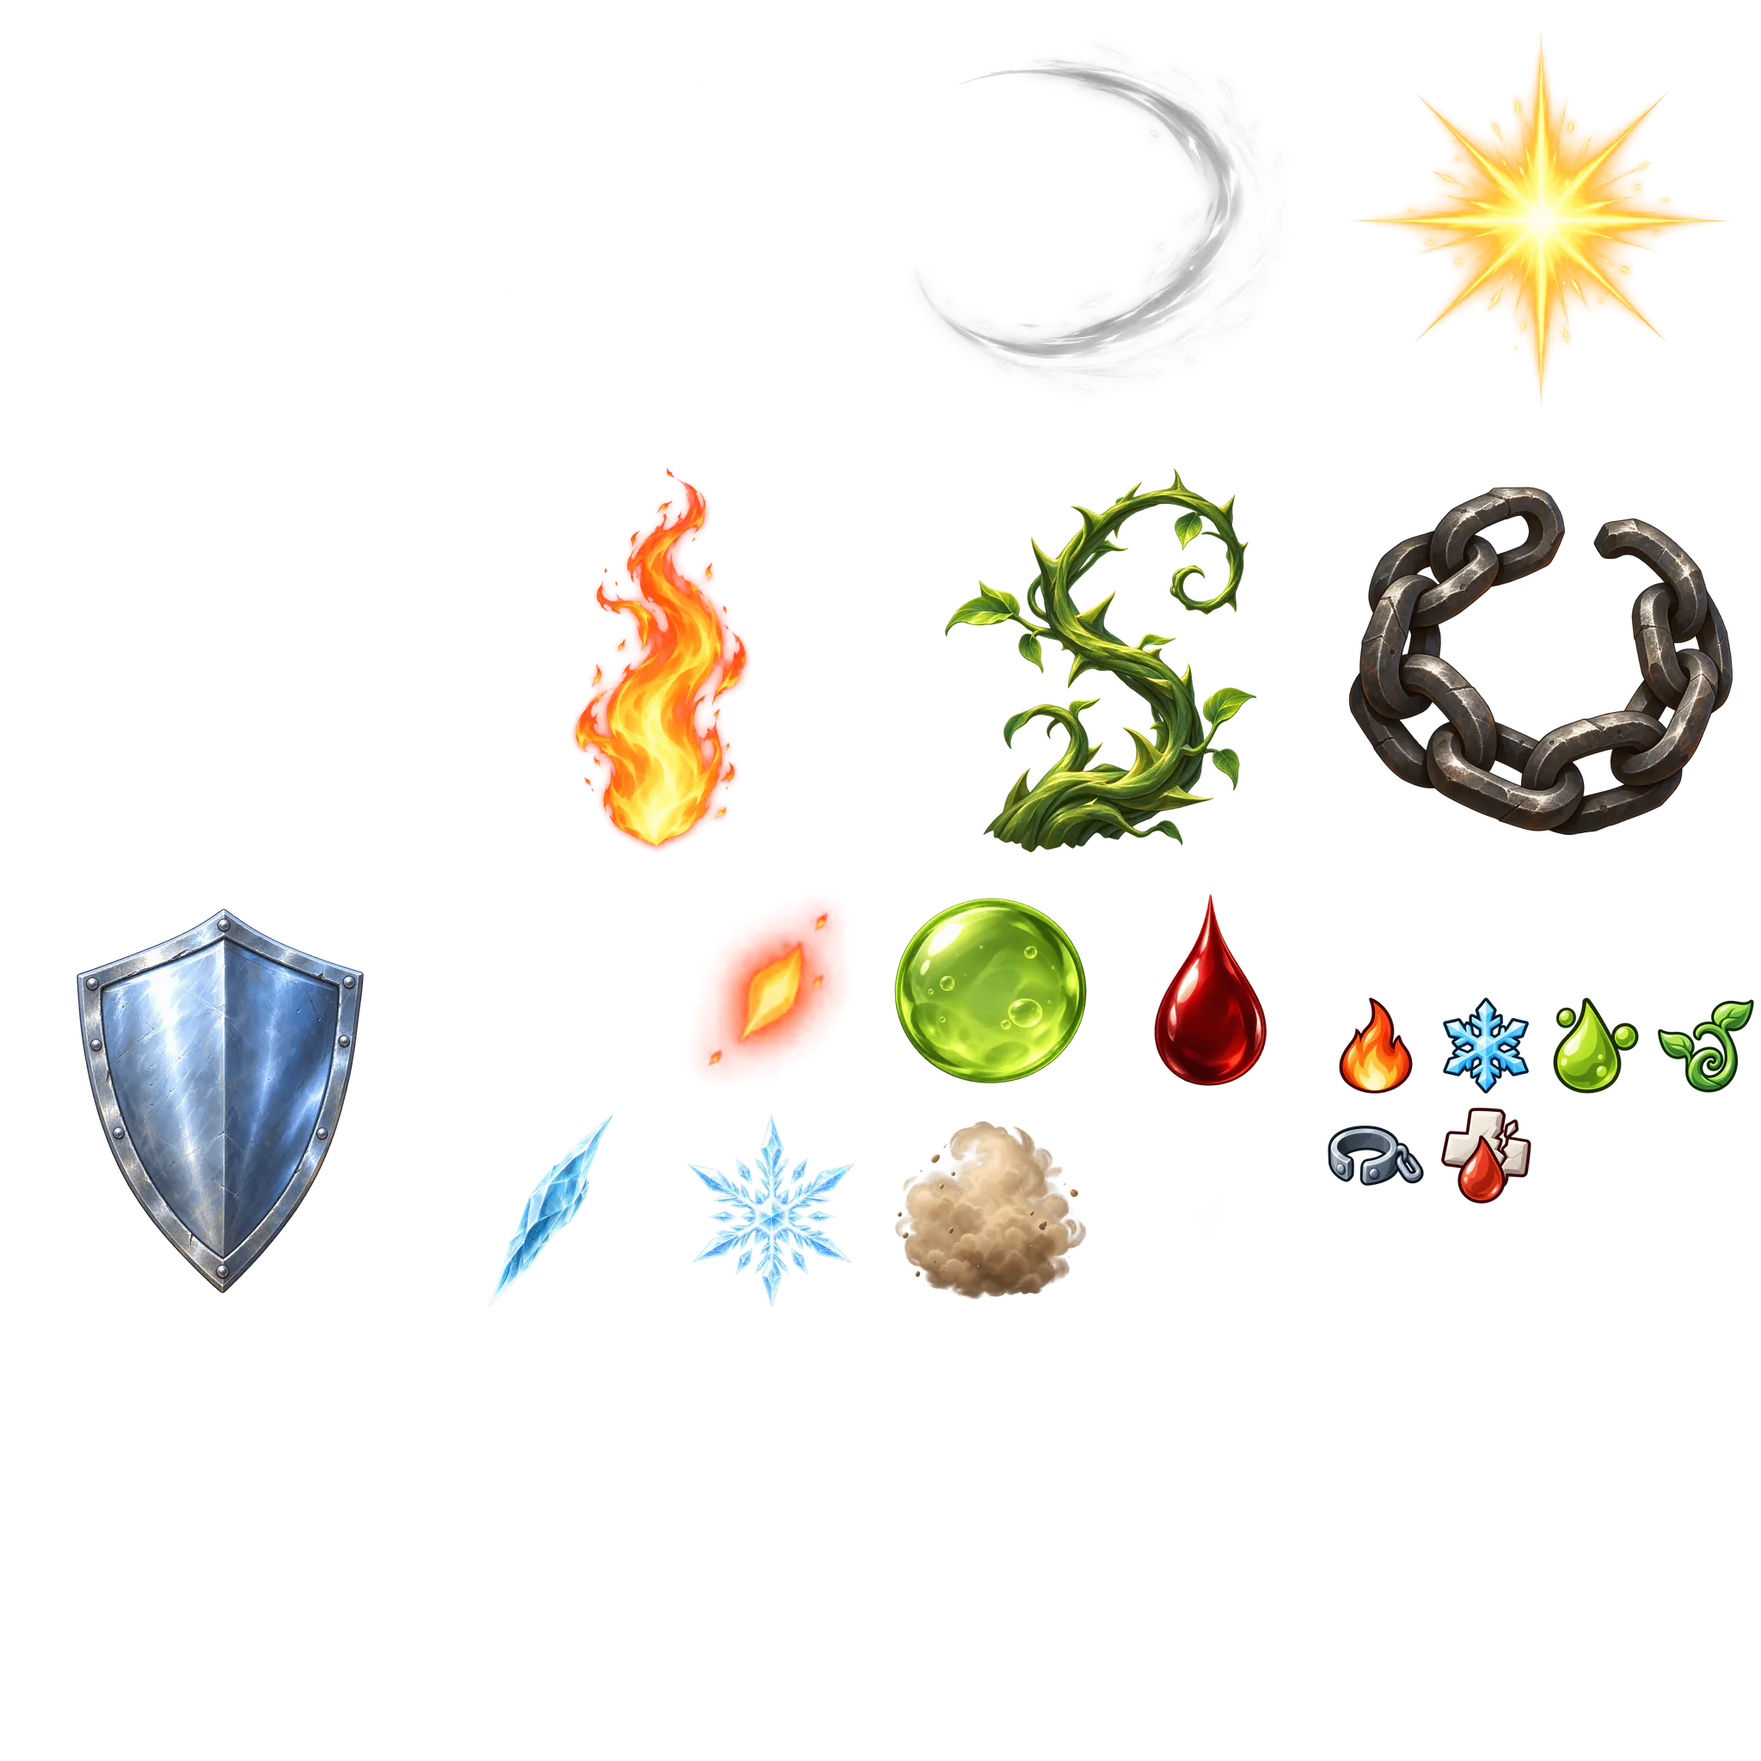
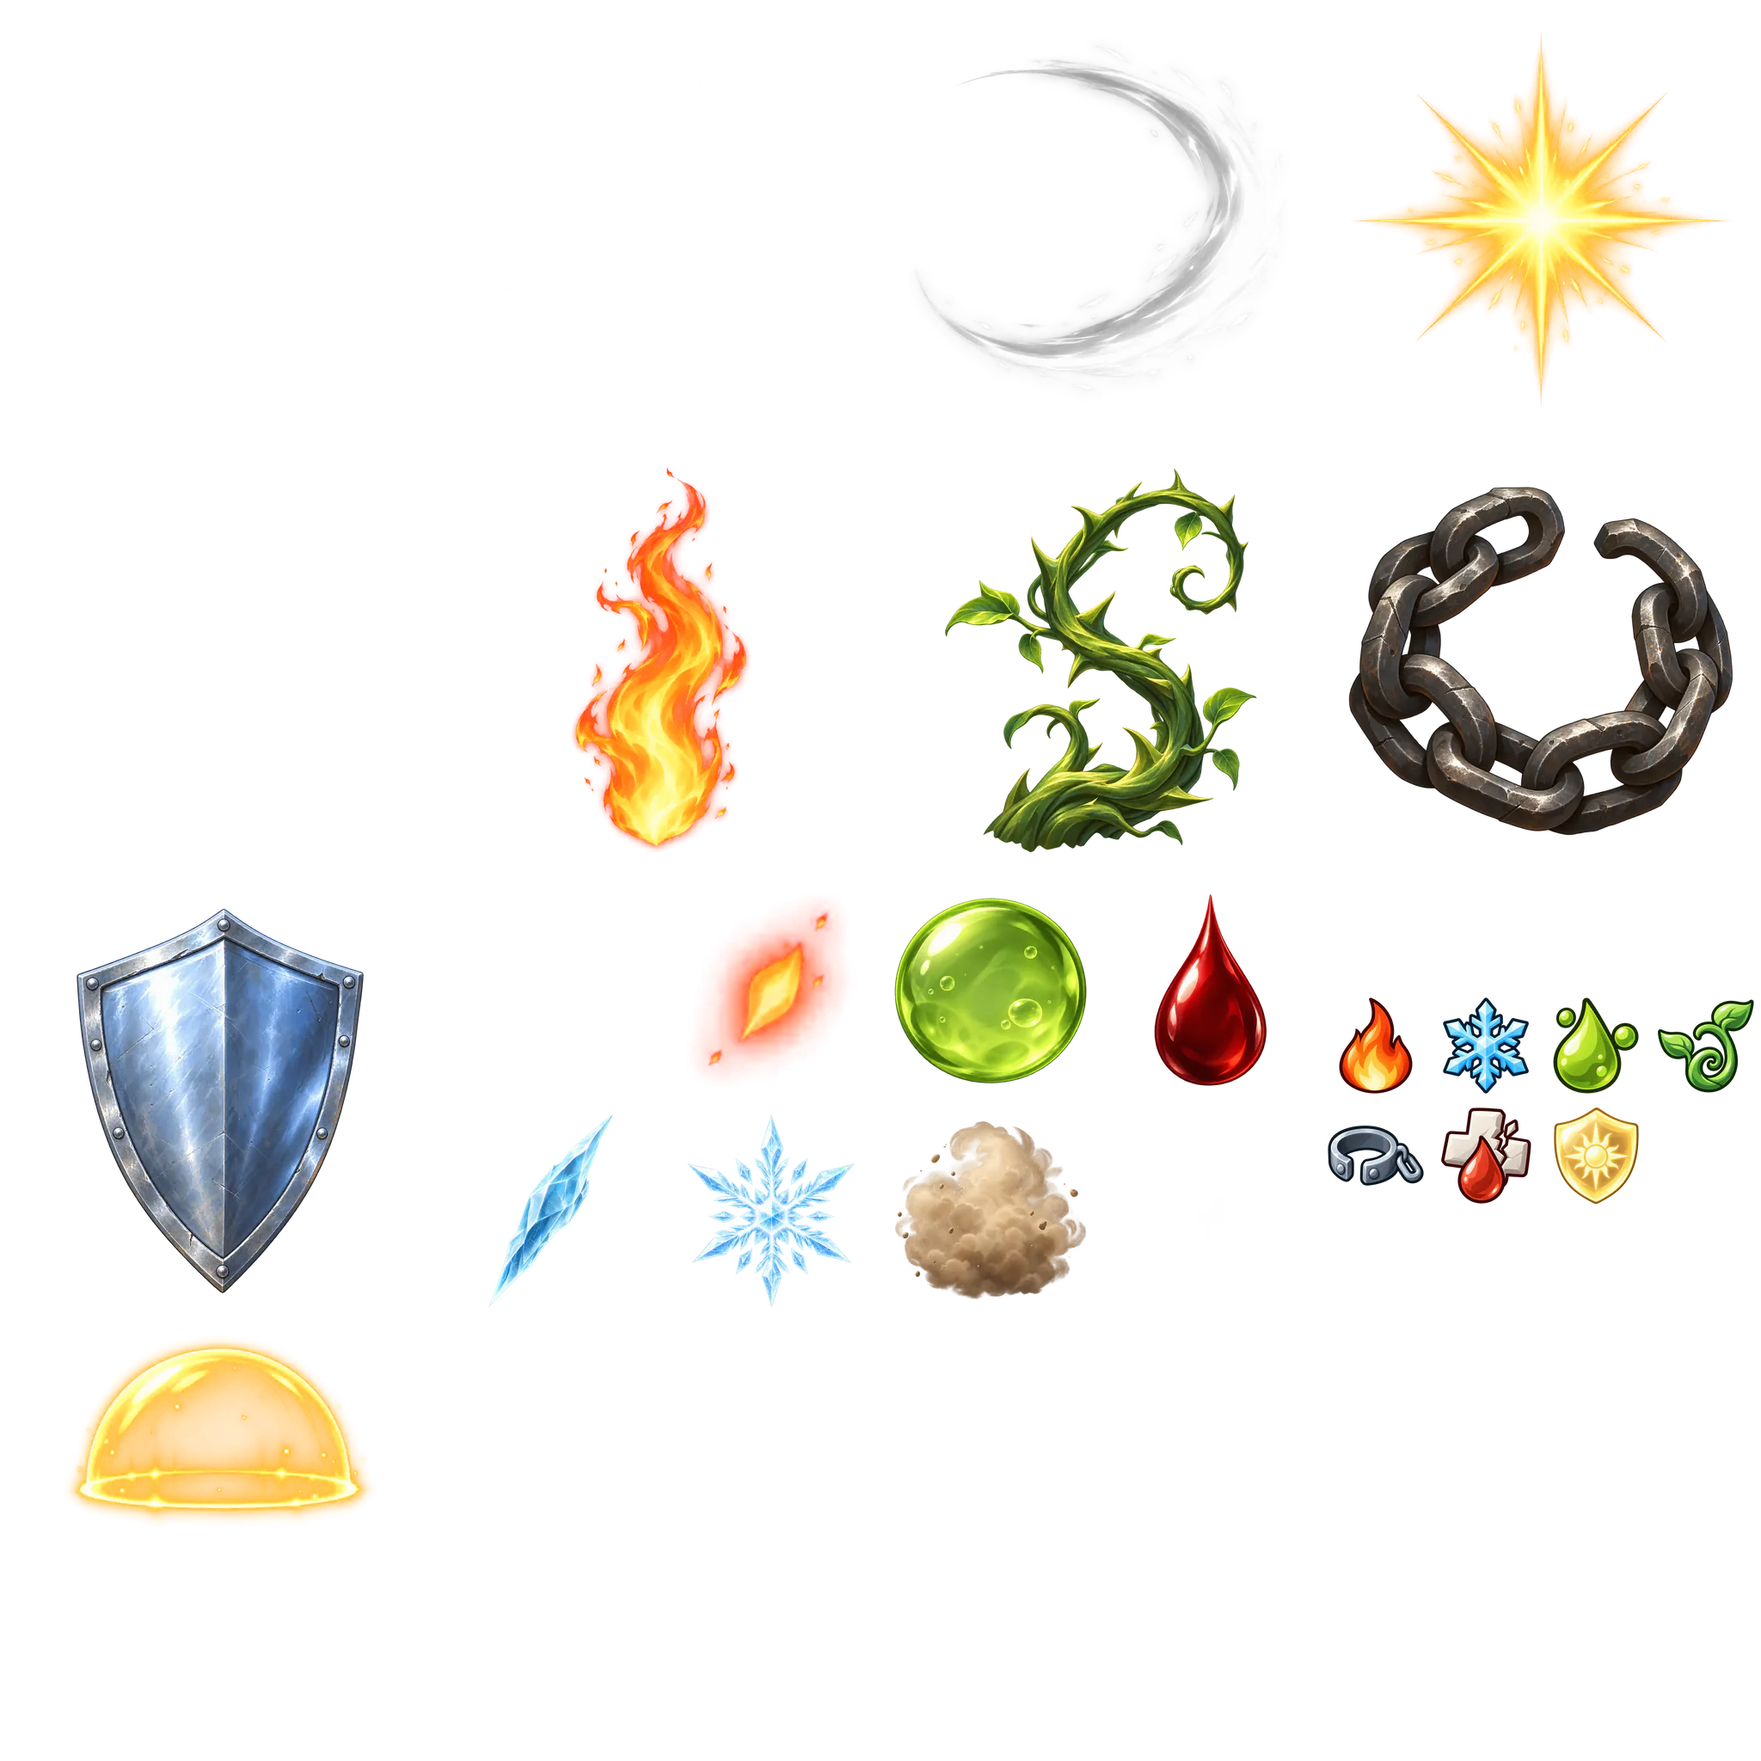
feat(web): introduce new Priest skills and update battle mechanics
- Added new Priest skills: Mend, Smite, and Sanctuary, each with unique healing and damage effects.
- Updated README to include new card concepts and status effects, enhancing gameplay dynamics.
- Introduced new visual assets for Priest skills and effects, including icons and animations.
- Enhanced the FX atlas to accommodate new effects related to the Ward and Sanctuary skills.
- Updated unit tests to ensure functionality of new skills and their interactions in battle.

Changed region(s): [[0.0312, 0.75, 0.2188, 0.875], [0.875, 0.625, 0.9375, 0.6875]]

diff --git a/apps/web/src/features/battle/scene/fx-slots.ts b/apps/web/src/features/battle/scene/fx-slots.ts
@@ -58,7 +58,8 @@ const fixed = (at: FxCell, blend: FxSlot["blend"], anchor: string): FxSlot => ({
  * The slot table of the effects atlas: the source of truth for the code, the
  * placeholders and the pack script of the painted atlas (#12). The code uses
  * only the slot names, so the art can change with no code change. The row at
- * y = 1536 and the rest of the cell at (1536, 1024) are free for new slots.
+ * y = 1536 after x = 512 and the rest of the cell at (1536, 1024) are free
+ * for new slots.
  */
 export const FX_SLOTS = {
   glow: code(cell(0, 0, 512), "additive"),
@@ -90,18 +91,16 @@ export const FX_SLOTS = {
   "icon-hobble": fixed(cell(1536, 1280, 128), "alpha", FX_ANCHORS.iconHobble),
   "icon-bleed": fixed(cell(1664, 1280, 128), "alpha", FX_ANCHORS.iconBleed),
   "icon-ward": fixed(cell(1792, 1280, 128), "alpha", FX_ANCHORS.iconWard),
+  ward: fixed(cell(0, 1536, 512, 256), "additive", FX_ANCHORS.holy),
 } as const satisfies Readonly<Record<string, FxSlot>>;
 
 export type FxSlotName = keyof typeof FX_SLOTS;
 
 /**
- * The slots that the painted atlas does not have yet (#45 paints the Ward
- * icon). They keep their canvas placeholder over the painted atlas, and the
- * DOM shows a glyph for them.
+ * The slots that the painted atlas does not have yet. They keep their canvas
+ * placeholder over the painted atlas, and the DOM shows a glyph for them.
  */
-export const UNPAINTED_SLOTS: ReadonlySet<FxSlotName> = new Set<FxSlotName>([
-  "icon-ward",
-]);
+export const UNPAINTED_SLOTS: ReadonlySet<FxSlotName> = new Set<FxSlotName>();
 
 /** All slot names, in the order of the table. */
 export const fxSlotNames = (): FxSlotName[] =>

diff --git a/apps/web/src/features/battle/scene/textures.ts b/apps/web/src/features/battle/scene/textures.ts
@@ -722,6 +722,35 @@ const drawHeal: FxDraw = (context, width) => {
   context.fillRect(width * 0.2, width / 2 - arm, width * 0.6, arm * 2);
 };
 
+/** The Ward dome: a half-sphere of gold light on a thin ring of light. */
+const drawDome: FxDraw = (context, width) => {
+  const base = width * 0.72;
+  const radius = width * 0.38;
+  context.shadowColor = FX_ANCHORS.holy;
+  context.shadowBlur = width / 16;
+  const fill = context.createRadialGradient(
+    width / 2,
+    base,
+    radius * 0.4,
+    width / 2,
+    base,
+    radius
+  );
+  fill.addColorStop(0, "rgba(255, 215, 90, 0.08)");
+  fill.addColorStop(1, "rgba(255, 215, 90, 0.45)");
+  context.fillStyle = fill;
+  context.beginPath();
+  context.arc(width / 2, base, radius, Math.PI, 0);
+  context.closePath();
+  context.fill();
+  context.strokeStyle = FX_ANCHORS.holy;
+  context.lineWidth = width / 40;
+  context.stroke();
+  context.beginPath();
+  context.ellipse(width / 2, base, radius, radius * 0.18, 0, 0, Math.PI * 2);
+  context.stroke();
+};
+
 const drawTrail: FxDraw = (context, width, height) => {
   const along = context.createLinearGradient(
     width / 16,
@@ -794,6 +823,7 @@ const FX_PLACEHOLDERS: Readonly<Record<FxSlotName, FxDraw>> = {
   "icon-hobble": glyphIcon("speed", FX_ANCHORS.iconHobble),
   "icon-bleed": drawBleedIcon,
   "icon-ward": glyphIcon("shield", FX_ANCHORS.iconWard),
+  ward: drawDome,
 };
 
 /** The placeholder atlas is half size: the UV rectangles do not change. */

diff --git a/apps/web/src/features/battle/scene/particles.ts b/apps/web/src/features/battle/scene/particles.ts
@@ -452,9 +452,10 @@ const BURSTS: Readonly<Record<BurstName, readonly Emission[]>> = {
       }),
     },
   ],
-  // Sanctuary: a shield forms on the Unit, and gold motes go up around it.
+  // Sanctuary: a dome of gold light forms on the Unit, and gold motes go up
+  // around it.
   ward: [
-    { slot: "shield", count: 1, place: pulse(0.25, 0.8) },
+    { slot: "ward", count: 1, place: pulse(0.25, 0.8) },
     {
       slot: "spark",
       count: 10,
@@ -491,9 +492,9 @@ const BURSTS: Readonly<Record<BurstName, readonly Emission[]>> = {
       place: spray({ speed: [0.2, 0.4], up: 0.2, size: [0.08, 0.14] }),
     },
   ],
-  // A Ward absorbs damage: a short shield flash in the Holy gold.
+  // A Ward absorbs damage: a short flash of the gold dome.
   "ward-hit": [
-    { slot: "shield", count: 1, place: pulse(0.7, 0.85) },
+    { slot: "ward", count: 1, place: pulse(0.7, 0.85) },
     {
       slot: "glow",
       count: 1,

diff --git a/scripts/fx-atlas/prompts.ts b/scripts/fx-atlas/prompts.ts
@@ -64,6 +64,9 @@ const SUBJECT: Readonly<Record<FxSlotName, string>> = {
   "icon-hobble": "a shackle: an open iron ankle cuff with one chain link.",
   "icon-bleed":
     "a blood drop in front of a broken heal cross: a pale plus sign that is cracked in two.",
+  "icon-ward":
+    "a rounded heater shield made of gold light, with a small sun mark at its center. It is light, not metal: no rivets, no rim and no steel. It is not round and not a kite shield.",
+  ward: "a protective dome of gold holy light, seen from the front: a clear half-sphere with a bright rim and a faint glow inside, standing on a thin bright ring at its base. Light only: no steel, no shield shape and no figure inside.",
 };
 
 const colorRule = (name: FxSlotName): string => {

diff --git a/scripts/pack-fx-atlas.ts b/scripts/pack-fx-atlas.ts
@@ -5,7 +5,7 @@
  *
  * Each master in `apps/web/art/fx/` goes into its cell from the slot table in
  * `fx-atlas.ts`. It fails if a master is missing, has the wrong size or has
- * alpha in its empty band, or if the atlas is larger than 600 KB.
+ * alpha in its empty band, or if the atlas is larger than 640 KB.
  */
 import { existsSync, statSync } from "node:fs";
 
@@ -19,7 +19,7 @@ import {
 } from "../apps/web/src/features/battle/scene/fx-atlas.ts";
 import { ATLAS_PATH, bandOf, masterPath } from "./fx-atlas/slots.ts";
 
-const MAX_BYTES = 600 * 1024;
+const MAX_BYTES = 640 * 1024;
 
 /** The problems of one master, or an empty list. */
 const checkMaster = async (

diff --git a/apps/web/src/features/battle/scene/fx-atlas.unit.test.ts b/apps/web/src/features/battle/scene/fx-atlas.unit.test.ts
@@ -24,8 +24,8 @@ const overlaps = (a: FxSlotName, b: FxSlotName) => {
 describe("the effects atlas slot table", () => {
   const names = fxSlotNames();
 
-  it("has the 25 slots of the atlas", () => {
-    expect(names).toHaveLength(25);
+  it("has the 26 slots of the atlas", () => {
+    expect(names).toHaveLength(26);
     expect(FX_ATLAS_SIZE).toBe(2048);
   });
 

diff --git a/apps/web/src/features/battle/card-art.unit.test.ts b/apps/web/src/features/battle/card-art.unit.test.ts
@@ -67,6 +67,7 @@ describe("hasCardArt", () => {
     expect(hasCardArt("elf.lethielFirstGardener")).toBe(true);
     expect(hasCardArt("mage.fireball")).toBe(true);
     expect(hasCardArt("ranger.longShot")).toBe(true);
+    expect(hasCardArt("priest.sanctuary")).toBe(true);
     expect(hasCardArt("feral.caveBear")).toBe(true);
   });
 

diff --git a/apps/web/src/features/battle/card-art.ts b/apps/web/src/features/battle/card-art.ts
@@ -59,6 +59,7 @@ const RACES_AND_CLASSES_WITH_ART: ReadonlySet<string> = new Set([
   "warrior",
   "ranger",
   "mage",
+  "priest",
 ]);
 
 /** Whether the art of a card exists (see `cardIllustration`). */

diff --git a/docs/game/10-card-concepts.md b/docs/game/10-card-concepts.md
@@ -28,7 +28,7 @@ The provisional set is budget-valid and simulation-ready. It is not balance-appr
 | Orc | Red badlands: dusty mesas, dry ground, bone and hide totems | Burnt orange and dark red. Leather, fur, rough iron |
 | Goblin | The hill mines: cool grey-blue tunnels, rail tracks, junk-heap workshops, brass lanterns and jars of acid-green lamp oil. No red earth and no desert | Soot grey and slate blue, brass and acid green. Patched iron, canvas, brass, junk |
 | Feral | The wild peaks and deep caves: cliffs, glaciers, cave mouths and old bones | Slate violet and ice white. Fur, horn, stone and ice |
-| Skill Cards | A neutral battlefield: green grass and a Lane of grey stone tiles, with no banners | The Damage Type color (Fire: orange-red, Frost: light blue). Physical: neutral steel and leather |
+| Skill Cards | A neutral battlefield: green grass and a Lane of grey stone tiles, with no banners | The Damage Type color (Fire: orange-red, Frost: light blue, Holy: gold-yellow). Physical: neutral steel and leather |
 
 ## 2. Human Creature Cards
 
@@ -1865,7 +1865,53 @@ Identity: control and Hero damage. Physical, so the palette is neutral steel and
 | Setting | A neutral battlefield, seen from far, with all the Lanes. |
 | Palette | Neutral steel and leather, with green fletching. Uncommon: a small brass trim on the bow. |
 
-## 12. When cards change
+## 12. Priest Skill Cards
+
+Identity: healing, protection and Holy damage. The palette is Holy gold-yellow light with a sun motif. The partial figure has plain cream-white linen sleeves and a rope belt, and a small gold sun pendant on a cord is the Priest mark on each card. It has no blue cloth, no staff and no sun disc, so it does not look like Dawn Cleric or the Mage, and it has no sign of a Race. A friendly Unit in the image is a back view of a soldier in a closed full helmet and a cloak.
+
+### 12.1 Mend
+
+`priest.mend` · Priest · Common · Countdown 2 · A friendly Unit · Heal 6 HP to a friendly Unit.
+
+> Rise. You are not done yet.
+
+| Field | Brief |
+| --- | --- |
+| Effect subject | A warm stream of gold light that flows into a wounded soldier and lifts the soldier up. |
+| Partial figure | An open hand in a cream-white linen sleeve at the left edge of the image, palm to the right, with the gold sun pendant on a cord at the wrist. |
+| Action | The stream of light goes from the palm to the right, into the back of a soldier at the right. The soldier, seen from behind in a closed full helmet and a cloak, gets up from one knee. A cut on the soldier's arm closes in the light. |
+| Setting | A neutral battlefield. |
+| Palette | Holy gold-yellow light, with a few small soft green-white plus-shaped heal motes around the soldier. |
+
+### 12.2 Smite
+
+`priest.smite` · Priest · Common · Countdown 2 · An enemy Unit · Deal 3 Holy damage to an enemy Unit. Armor does not reduce it.
+
+> No armor hides you from the light.
+
+| Field | Brief |
+| --- | --- |
+| Effect subject | A thick, vertical shaft of sunlight that strikes straight down through heavy armor. |
+| Partial figure | A raised hand in a cream-white linen sleeve at the left edge of the image, with the gold sun pendant on a cord at the wrist. |
+| Action | The shaft of sunlight comes straight down from the sky, vertical, not slanted. It hits a far, dark, heavily armored silhouette at the right of the image. The light shines through the armor: gold light comes out of the seams and through the plates. No thrown object and no weapon. |
+| Setting | A neutral battlefield. |
+| Palette | Holy gold-yellow light, with dark steel on the silhouette. |
+
+### 12.3 Sanctuary
+
+`priest.sanctuary` · Priest · Uncommon · Countdown 3 · A friendly Unit · A friendly Unit gets Ward 5: it absorbs the next 5 damage.
+
+> Stand within the light.
+
+| Field | Brief |
+| --- | --- |
+| Effect subject | A clear dome of gold light over a soldier, on a circle of gold light on the ground. The dome is light only: no steel, no shield shape. |
+| Partial figure | A hand in a cream-white linen sleeve at the left edge of the image, with the gold sun pendant on a cord at the wrist. |
+| Action | A ribbon of light goes from the hand to the right and forms the dome over a soldier, seen from behind in a closed full helmet and a cloak. A dark enemy blade comes in from the right and stops on the dome. The light ripples where the blade hits it. |
+| Setting | A neutral battlefield. The gold circle lies on the grey stone tiles of a Lane. |
+| Palette | Holy gold-yellow light. Uncommon: a small brass trim on the sun pendant and on the sleeve cuff. |
+
+## 13. When cards change
 
 - When you add a card or a Token to `cards.ts`, add its entry here before you make the art. For a Creature Card or a Token, also add its subject line to `scripts/creature-art/subjects.ts`. For a Skill Card, the brief must have the fields Effect subject, Partial figure, Action, Setting and Palette: `bun skill:prompts` fails without them.
 - When you change a name or flavor text in the Message Catalog, look at the entry here again. The image must still agree with the text.

diff --git a/apps/web/README.md b/apps/web/README.md
@@ -6,14 +6,29 @@ Answers all ur questions automatically with ur best recommendations, except crit
 
 v1:
 
-- 46, 47
-- introduce terms Buff and Debuff, Damage over Time (Dot)
+New Card:
+
+- completely replace Dusthide Brawler Orc Unit for a Wall Unit, Orc doesnt have Wall Unit
+
+New Status:
+
+- Accursed N: Damaged creatures will take +N damage from all magical attacks (all except physical attack)
+- Devour N: +N Attack and +N HP for each kill, this Keyword is exclusive to Feral replacing Trample maybe
+- Heal N: +N HP for the lowest HP Unit on player's friendly units for each turn
+- Retreat N — After this Unit attacks, it moves up to N Squares backward
+- update the Keyword "Heroic N" into "+N Attack after this Unit attacks enemy Unit", with max N = 4, only Rare can have N=2, only Epic can have N=3, only Legendary can have N=4
+- Ambush: When regular attacking for the first time, Attack is doubled
+- Arctic Barrier: Cannot be affected by buffs or debuffs
+- Backstab: When possible, will attack enemy creature directly behind with a double Attack
+- Blood Price N: Deals N damage to the player's summoning the Unit when summoned
+- Undead King: When an enemy Units is killed, it will be rebirth by this ability as a Skeleton (treated as player's Unit)
+- ? N: When this Unit kills an enemy Unit, it gains +N HP
+- Wallbreaker: Deals triple damage to Wall Unit
+
+New features:
+
 - /grill-with-docs brainstorm with me, we need more Skills cards, every Class should have 1 Epic, 2 Rare, 3 Uncommon, 4 Common
-- /grill-with-docs we already have Fire, Frost, and Holy Damage Type, i want to add another one called Lightning. the effect is Paralysis, which i think the afflicted unit can't move and i dont know more, tell me what u think
-- /grill-with-docs i want to update the Keyword "Heroic N" into "+N Attack after this Unit attacks enemy Unit", with max N = 4, only Rare can have N=2, only Epic can have N=3, only Legendary can have N=4
-- /grill-with-docs i want to completely change "Trample" into another Keyword called "Devour": +1 Attack and +1 HP for each kill, this Keyword is exclusive to Feral
-- /grill-with-docs i want to add another Keyword called "Heal N": +N HP for the lowest HP Units on player's board for each turn
-- /grill-with-docs i want to add another Keyword called "Retreat N" — After this Unit attacks, it moves up to N Squares backward.
+- /grill-with-docs we already have Fire, Frost, and Holy Damage Type, i want to add another one called Lightning. the effect is Paralysis, which i think the afflicted unit can't move and i dont know more, tell me what u think, also it needs to be applied to some units / skills
 - if a 0 Base Attack unit have poison, or burn, etc skills, can they inflict those posion or burn, etc to the enemy unit?
 - /grill-with-docs dont u think we need to also have economy simulation script before adding "Bazaar" or "Packs" features, not only battle simulation
 - /grill-with-docs new Hero's Class for goblin and feral, maybe Shaman?
